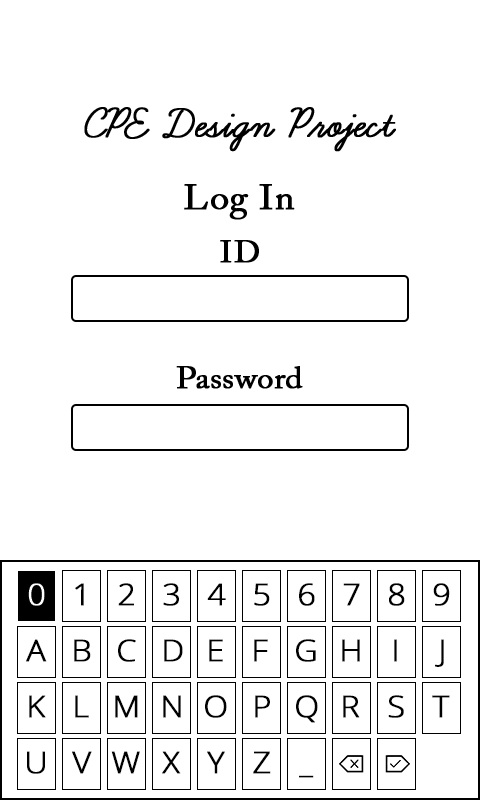
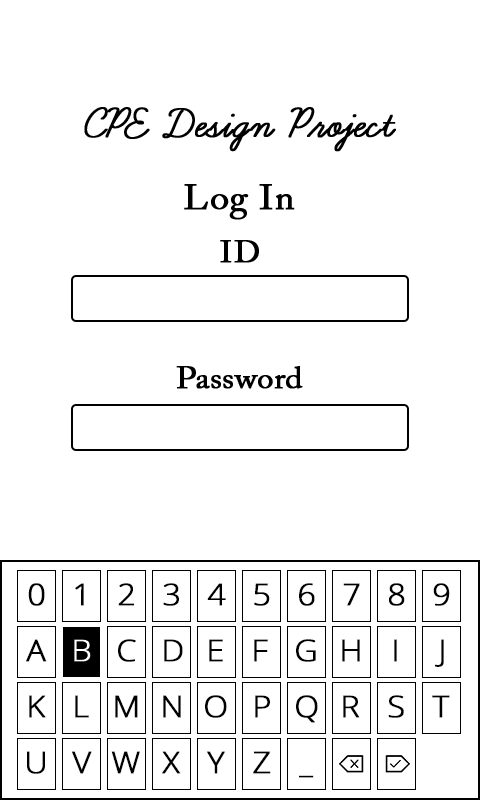
Added EPD module

Changed region(s): [[0.0312, 0.6875, 0.125, 0.7812], [0.125, 0.7812, 0.2188, 0.875]]

diff --git a/main.py b/main.py
@@ -17,19 +17,42 @@
 # -Load battery life (hw) 
 # -Read input buttons (hw) (interrupt)
 
-from PIL import Image, ImageDraw, ImageFont
+import argparse
 import PIL.ImageOps
+from PIL import Image, ImageDraw, ImageFont
 
-keys =  [
+
+#Parse args
+parser = argparse.ArgumentParser()
+parser.add_argument("--not-pi",
+                    action="store_true",
+                    help="Execute the script on a non-Raspberry Pi computer.")
+parser.add_argument("--pi", 
+                    action="store_true",
+                    help="Execute the script on the Raspberry Pi.")
+args = parser.parse_args()
+
+
+keys =  [ #DEL = 127, 0 = OK
         ['0', '1', '2', '3', '4', '5', '6', '7', '8', '9'],
         ['A', 'B', 'C', 'D', 'E', 'F', 'G', 'H', 'I',' J'],
         ['K', 'L', 'M', 'N', 'O', 'P', 'Q', 'R', 'S', 'T'],
-        ['U', 'V', 'W', 'X', 'Y', 'Z', ' ', 127, 0, 0]
-        ]
-        #DEL = 127, 0 = OK
-
+        ['U', 'V', 'W', 'X', 'Y', 'Z', ' ', 127, 0, 0]]
 base = None
 lastkey = ''
+
+
+if args.pi:
+    import epd
+
+
+def UpdateDisplay():
+    if args.not_pi:
+        base.show()
+        base.save('cache/screens/screen.png', "PNG")
+
+    if args.pi:
+        pass
 
 
 def ShowKeyboard():
@@ -38,14 +61,12 @@ def ShowKeyboard():
     base.paste(keyboard, (0, 560))
 
     #Select letter 'A'
-
     letter = [0, 0] # Corresponds to what letter in the keys array
     keybox = [17, 570, 56, 622] # Coordinate for the button on the keyboard. Convert to tuple when used on functions..
     
     keyregion = base.crop(tuple(keybox))
     base.paste(PIL.ImageOps.invert(keyregion), keybox)
-    base.show()
-    base.save('cache/screens/screen.png', "PNG")
+    UpdateDisplay()
 
     # Loop: Get button input
     while True:
@@ -66,8 +87,7 @@ def ShowKeyboard():
                 # Invert new selection
                 keyregion = base.crop(tuple(keybox))
                 base.paste(PIL.ImageOps.invert(keyregion), keybox)
-                base.show()
-                base.save('cache/screens/screen.png', "PNG")
+                UpdateDisplay()
                 print keys[letter[0]][letter[1]]
         elif inp == 'left':
             if letter[1] == 0:
@@ -82,8 +102,7 @@ def ShowKeyboard():
                 # Invert new selection
                 keyregion = base.crop(tuple(keybox))
                 base.paste(PIL.ImageOps.invert(keyregion), keybox)
-                base.show()
-                base.save('cache/screens/screen.png', "PNG")
+                UpdateDisplay()
                 print keys[letter[0]][letter[1]]
             pass
         elif inp == 'up':
@@ -99,12 +118,11 @@ def ShowKeyboard():
                 # Invert new selection
                 keyregion = base.crop(tuple(keybox))
                 base.paste(PIL.ImageOps.invert(keyregion), keybox)
-                base.show()
-                base.save('cache/screens/screen.png', "PNG")
+                UpdateDisplay()
                 print keys[letter[0]][letter[1]]
             pass
         elif inp == 'down':
-            if letter[0] == 3 or cmp(letter, [9, 2]):
+            if letter[0] == 3 or cmp(letter, [9, 2]) == 0:
                 pass
             else:
                 # Uninvert current selection 
@@ -116,13 +134,14 @@ def ShowKeyboard():
                 # Invert new selection
                 keyregion = base.crop(tuple(keybox))
                 base.paste(PIL.ImageOps.invert(keyregion), keybox)
-                base.show()
-                base.save('cache/screens/screen.png', "PNG")
+                UpdateDisplay()
                 print keys[letter[0]][letter[1]]    
             pass
-        elif inp == 'ok':
-            pass
-        elif inp == 'cancel':
+        elif inp == 'select':
+            # Buffer selected key
+            lastkey = keys[letter[0]][letter[1]]
+        elif inp == 'back':
+            # Hide keyboard
             pass
         else:
             pass
@@ -132,6 +151,7 @@ def ShowKeyboard():
 
 def HideKeyboard():
     pass
+
 
 def Main():
     # Draw the log in screen
@@ -145,17 +165,15 @@ def Main():
     fnt = ImageFont.truetype('resources/fonts/ACaslonPro-Regular.otf', 35)
 
     ShowKeyboard()
-    base.show()
-    base.save('cache/screens/screen.png', "PNG")
-
 
     # Attemp log in
     
 
-    # base.show()
-    # # base.save('cache/screens/screen.png', "PNG")
+    # UpdateDisplay
     base.close()
     temp_im.close()
 
+
 if __name__ == '__main__':
     Main()
+    # spi.close()

diff --git a/epd.py b/epd.py
@@ -1,0 +1,123 @@
+import spidev  # SPI library
+from subprocess import call
+from array import *
+import time
+import RPi.GPIO as GPIO # GPIO library
+# GPIO SETUP
+GPIO.setmode(GPIO.BOARD)
+GPIO.setwarnings(False)
+GPIO.setup(10,GPIO.IN) #output from display to pi /TC_BUSY (if 0=busy  if 1=ready to receive new commands)
+GPIO.setup(12,GPIO.OUT) # /TC_EN (1=disabled 0=enabled)
+GPIO.output(12,GPIO.HIGH)
+GPIO.output(12,GPIO.LOW) #to enable /TC_EN
+time.sleep(0.01) # for setup and initialization of TCON
+# button setup
+GPIO.setup(40,GPIO.IN)#button 1
+GPIO.setup(38,GPIO.IN)#button 2
+GPIO.setup(36,GPIO.IN)#button 3
+GPIO.setup(37,GPIO.IN)#button 4
+GPIO.setup(35,GPIO.IN)#button 5
+GPIO.setup(33,GPIO.IN)#button 6
+# SPI SETUP
+spi= spidev.SpiDev()
+spi.open(0,0)# device 0 (SPI_CE0_N)
+spi.max_speed_hz = 3000000 # bit rate 3Mhz
+spi.mode = 0b11 # polarity CPOL=1 CPHA=1
+spi.bits_per_word=8
+# Commands
+reset_data_pointer=[0x20,0x0D,0x00] # resets data pointer to initial position
+update_display=[0x24,0x01,0x00] # updates display
+upload_header_command=[0x20,0x01,0x00,0x0F] # packet size is 16 bytes
+upload_image_data_command=[0x20,0x01,0x00,0xFA]  # packet size is 250 bytes
+image_header=[0x3A,0x01,0xE0,0x03,0x20,0x01,0x04,0x00,0x00,0x00,0x00,0x00,0x00,0x00,0x00,0x00] # 16-byte image header
+
+def send_commands(values_to_write):
+    resp=spi.xfer2(values_to_write)
+    while(GPIO.input(10)==GPIO.LOW): #wait for processing
+          pass
+
+
+def upload_image(image_data):
+    resp=spi.xfer2(upload_header_command + image_header)
+    while(GPIO.input(10)==GPIO.LOW): #wait for processing
+          pass
+    for x in range(0,48000,250):
+      resp=spi.xfer2(upload_image_data_command + image_data[x:x+250])
+      while(GPIO.input(10)==GPIO.LOW): #wait for processing
+          pass
+
+ 
+def button_press():
+    if(GPIO.input(40)==GPIO.HIGH and GPIO.input(10)==GPIO.HIGH):
+	print "1"
+        while(GPIO.input(40)==GPIO.HIGH):
+            pass
+	return "right"
+    if(GPIO.input(38)==GPIO.HIGH and GPIO.input(10)==GPIO.HIGH):
+	print "2"
+        while(GPIO.input(38)==GPIO.HIGH):
+            pass
+	return "down"
+    if(GPIO.input(36)==GPIO.HIGH and GPIO.input(10)==GPIO.HIGH):
+	print "3"
+        while(GPIO.input(36)==GPIO.HIGH):
+            pass
+	return "done"
+    if(GPIO.input(37)==GPIO.HIGH and GPIO.input(10)==GPIO.HIGH):
+        print "4"
+        while(GPIO.input(37)==GPIO.HIGH):
+            pass
+	return "left"
+    if(GPIO.input(35)==GPIO.HIGH and GPIO.input(10)==GPIO.HIGH):
+        print "5"
+        while(GPIO.input(35)==GPIO.HIGH):
+            pass
+	return "up"
+    if(GPIO.input(33)==GPIO.HIGH and GPIO.input(10)==GPIO.HIGH):
+	print "6"       
+        while(GPIO.input(33)==GPIO.HIGH):
+            pass        
+	return "back"
+
+
+def toIntArray(img):
+    data=[0]*384000
+    c=0
+    for x in range(0,800):
+        for y in range(0, 480):
+            rgb, alpha = img[y,x]
+            data[c]=rgb
+            c=c+1
+    return data
+
+
+def downsampleTo1bitGrayScale(imgIntArray):
+    for i in range(0, len(imgIntArray)):
+        imgIntArray[i] = 255 if imgIntArray[i]<=127 else 0
+    return imgIntArray
+
+
+def convertTo1bit_PixelFormatType4(picdata):
+    newPicData = [0]*len(picdata)
+    row = 30
+    s = 1
+    for i in range(0, len(picdata),16):
+        newPicData[row - s] = (
+            ((picdata[i + 6] << 7) & 0x80) | ((picdata[i + 14] << 6) & 0x40) | ((picdata[i + 4] << 5) & 0x20) | (
+                (picdata[i + 12] << 4) & 0x10) | ((picdata[i + 2] << 3) & 0x08) | ((picdata[i + 10] << 2) & 0x04) | (
+                (picdata[i + 0] << 1) & 0x02) | ((picdata[i + 8] << 0) & 0x01))
+
+        newPicData[row + 30 - s] = (
+            ((picdata[i + 1] << 7) & 0x80) | ((picdata[i + 9] << 6) & 0x40) | ((picdata[i + 3] << 5) & 0x20) | (
+                (picdata[i + 11] << 4) & 0x10) | ((picdata[i + 5] << 3) & 0x08) | ((picdata[i + 13] << 2) & 0x04) | (
+                (picdata[i + 7] << 1) & 0x02) | ((picdata[i + 15] << 0) & 0x01))
+
+        s = s + 1
+        if s == 31:
+            s = 1
+            row = row + 60
+    return newPicData
+
+    
+def shutdown(pin):
+    call('halt',shell=False)
